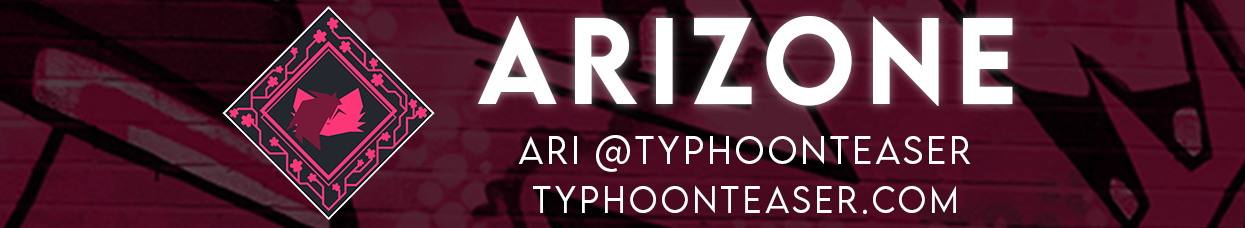
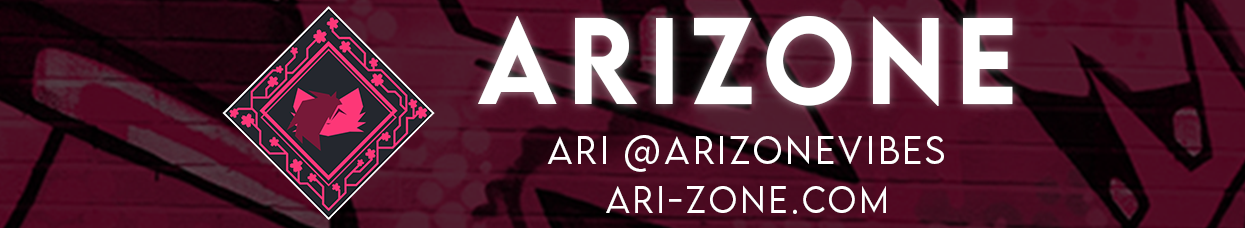
Update REAMME Links

Changed region(s): [[0.3968, 0.5833, 0.7936, 0.7675], [0.4273, 0.7982, 0.7936, 0.9518]]

diff --git a/README.md b/README.md
@@ -51,9 +51,9 @@ Techie girl who works on electronics maker projects including microcontrollers, 
 ![Ubuntu](https://img.shields.io/badge/Ubuntu-E95420?style=for-the-badge&logo=ubuntu&logoColor=white)
 ![Windows](https://img.shields.io/badge/Windows-0078D6?style=for-the-badge&logo=windows&logoColor=white)
 
-[website]: http://typhoonteaser.com/
-[twitter]: https://twitter.com/TyphoonTeaser
-[telegram]: https://t.me/typhoonteaser
-[twitch]: https://www.twitch.tv/typhoonteaser
-[hack]: https://hackaday.io/typhoonteaser
+[website]: http://ari-zone.com/
+[twitter]: https://twitter.com/AriZoneVibes
+[telegram]: https://t.me/arizonevibes
+[twitch]: https://www.twitch.tv/arizonevibes
+[hack]: https://hackaday.io/arizone
 [youtube]: https://www.youtube.com/channel/UCh0YbFSf61U8mfuufxhIyJg
